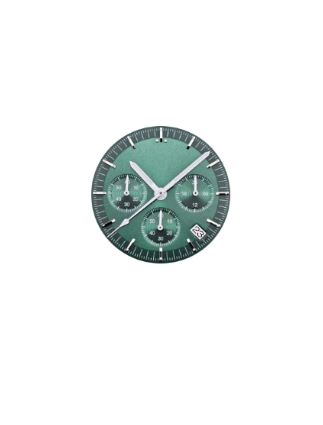
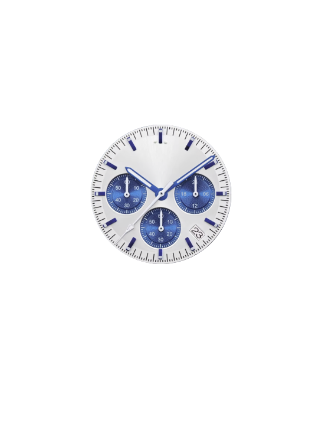
Speedmaster page - day #2 - finished 4

Changed region(s): [[0.2786, 0.2753, 0.7121, 0.6424]]

diff --git a/consSportSpeedmaster.html b/consSportSpeedmaster.html
@@ -164,6 +164,12 @@
                         <button class="option" data-value="10">
                             <img src="watchParts/7_Speedmaster/dial/dial_10.png" alt="Dial 10" />
                         </button>
+                        <button class="option" data-value="11">
+                            <img src="watchParts/7_Speedmaster/dial/dial_11.png" alt="Dial 11" />
+                        </button>
+                        <button class="option" data-value="12">
+                            <img src="watchParts/7_Speedmaster/dial/dial_12.png" alt="Dial 12" />
+                        </button>
                     </div>
                 </div>
 
